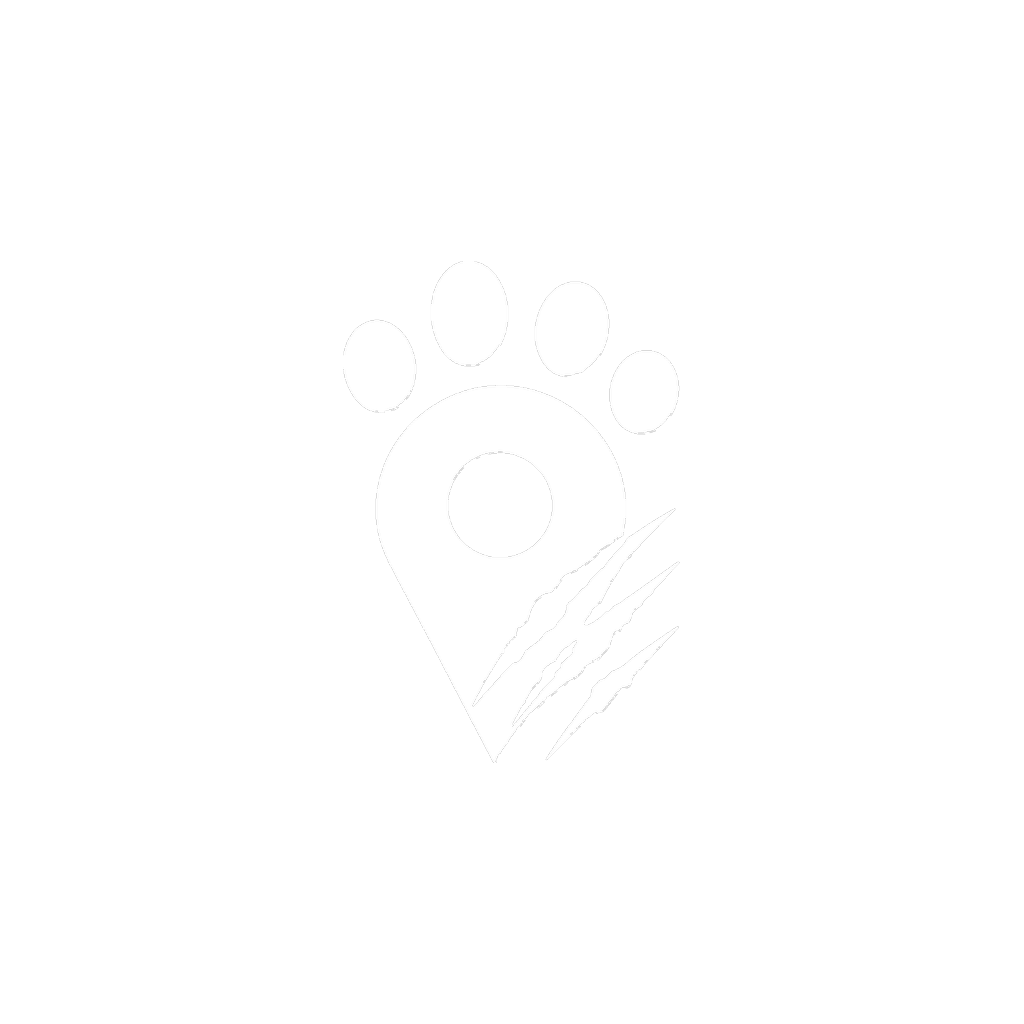
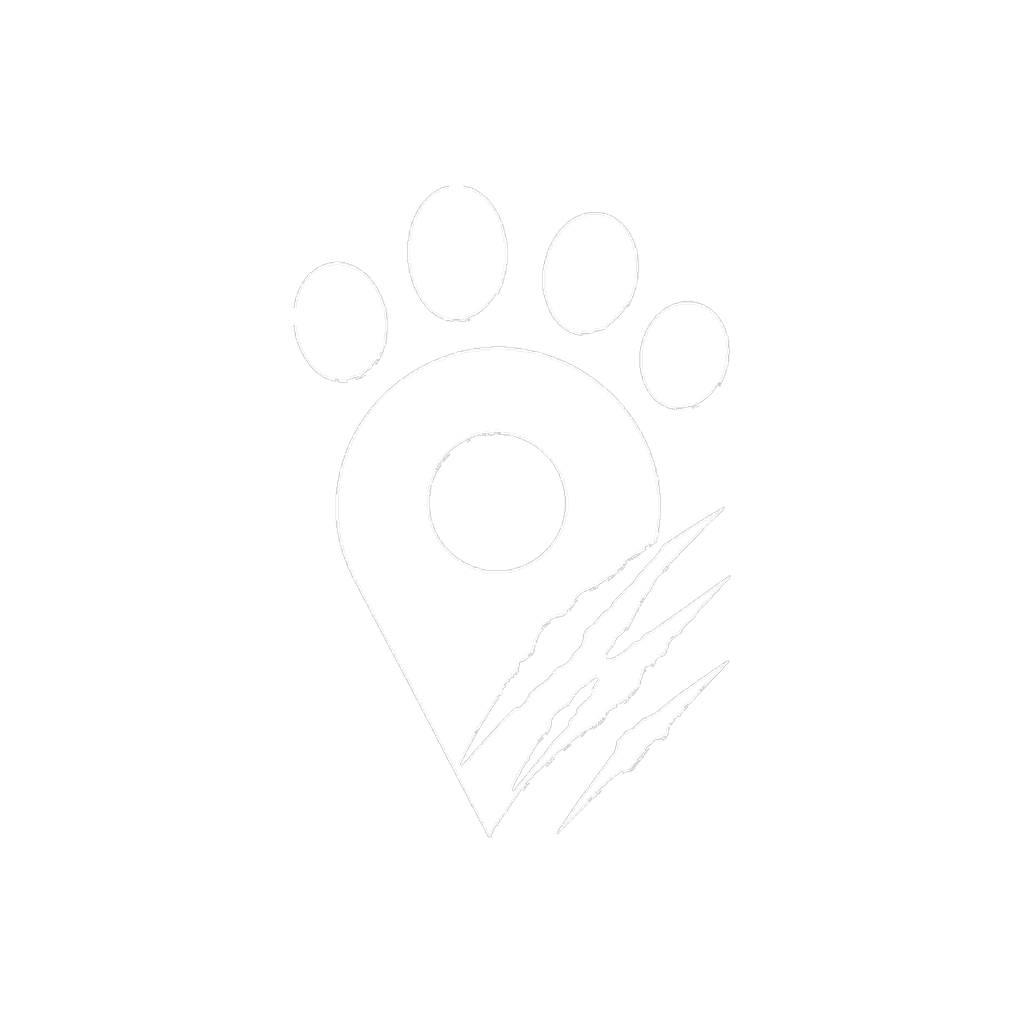
feat: 지도에 팔로우한 사람 지도 전환 기능 추가, 기본 언어 한글 고정, 앱 아이콘 심볼 확대
- map_screen.dart: 미동작 "나의 발톱 자국" 제거, 팔로우한 핀플러(데모 데이터) 지도 전환
  토글 + 아바타 스트립 + "내 지도로 돌아가기" 배너 추가
- locale_service.dart: 기기 언어 자동감지 제거, 최초 실행 시 한글 기본값으로 고정
- app_icon_fg_v2.png: adaptive icon 전경 심볼 확대(약 1.3배) 후 flutter_launcher_icons 재생성

Changed region(s): [[0.5625, 0.6875, 0.5938, 0.7188]]

diff --git a/lib/features/map/screens/map_screen.dart b/lib/features/map/screens/map_screen.dart
@@ -12,10 +12,10 @@ import 'package:pinspot/core/models/pin_rating_schema.dart';
 import 'package:pinspot/features/map/services/directions_service.dart';
 import 'package:pinspot/core/services/category_service.dart';
 import 'package:pinspot/features/pin/services/pin_service.dart';
-import 'package:pinspot/design/theme/tigo_colors.dart';
 import 'package:pinspot/design/utils/marker_builder.dart';
 import 'package:pinspot/features/tigo/models/tigo_model.dart';
 import 'package:pinspot/features/tigo/services/tigo_service.dart';
+import 'package:pinspot/features/map/data/followed_pinplers.dart';
 
 // 하드코딩된 데모용 핀(장소) — 정적 마커 데이터
 class _Pin {
@@ -62,6 +62,10 @@ class _MapScreenState extends State<MapScreen> {
   TravelStats? _travelStats;
   BitmapDescriptor? _myLocationIcon;
   StreamSubscription<Position>? _posSub;
+
+  // "팔로우한 사람 지도 보기" — 토글 on/off 및 현재 선택된 핀플러 (null = 나)
+  bool _showFollowed = false;
+  int? _selectedFollowedIndex;
 
   static const _defaultPos = LatLng(37.5665, 126.9780);
 
@@ -110,8 +114,9 @@ class _MapScreenState extends State<MapScreen> {
     return list;
   }
 
-  // 카테고리/검색어로 필터링된 사용자 저장 핀 목록
+  // 카테고리/검색어로 필터링된 사용자 저장 핀 목록 (팔로우한 다른 핀플러의 지도를 보는 중이면 내 핀은 숨김)
   List<PinModel> get _filteredSavedPins {
+    if (_selectedFollowedIndex != null) return [];
     var list = _selectedCategory == '전체'
         ? _savedPins
         : _savedPins.where((p) => p.category == _selectedCategory).toList();
@@ -169,7 +174,39 @@ class _MapScreenState extends State<MapScreen> {
           }
         : <Marker>{};
 
-    return {...staticMarkers, ...savedMarkers, ...dangerMarkers, ...myLocationMarker};
+    // 팔로우한 핀플러의 핀 마커 (선택 중일 때만) — 핀플러별 색상 hue로 구분
+    Set<Marker> followedMarkers = {};
+    if (_selectedFollowedIndex != null) {
+      final pinpler = followedPinplers[_selectedFollowedIndex!];
+      final hue = HSLColor.fromColor(pinpler.color).hue;
+      followedMarkers = pinpler.pins.map((loc) => Marker(
+        markerId: MarkerId('followed_${pinpler.name}_${loc.name}'),
+        position: loc.pos,
+        icon: BitmapDescriptor.defaultMarkerWithHue(hue),
+        infoWindow: InfoWindow(title: loc.name, snippet: pinpler.name),
+      )).toSet();
+    }
+
+    return {...staticMarkers, ...savedMarkers, ...dangerMarkers, ...myLocationMarker, ...followedMarkers};
+  }
+
+  // 팔로우 아바타 스트립에서 사람을 선택 — null이면 "나"(내 핀), 아니면 해당 핀플러의 핀으로 지도 전환
+  void _selectFollowed(int? index) {
+    setState(() => _selectedFollowedIndex = index);
+    if (index == null) return;
+    WidgetsBinding.instance.addPostFrameCallback((_) async {
+      if (!mounted) return;
+      final pins = followedPinplers[index].pins;
+      if (pins.isEmpty) return;
+      final ctrl = await _mapCtrl.future;
+      if (pins.length == 1) {
+        ctrl.animateCamera(CameraUpdate.newLatLngZoom(pins.first.pos, 14));
+      } else {
+        ctrl.animateCamera(
+          CameraUpdate.newLatLngBounds(_boundsFromPoints(pins.map((p) => p.pos).toList()), 80),
+        );
+      }
+    });
   }
 
   @override
@@ -569,6 +606,32 @@ class _MapScreenState extends State<MapScreen> {
                               ),
                             ),
                           ),
+                          // 팔로우한 사람 지도 보기 토글 버튼
+                          Padding(
+                            padding: const EdgeInsets.only(left: 8),
+                            child: GestureDetector(
+                              onTap: () => setState(() {
+                                _showFollowed = !_showFollowed;
+                                if (!_showFollowed) _selectedFollowedIndex = null;
+                              }),
+                              child: Container(
+                                width: 48, height: 48,
+                                decoration: BoxDecoration(
+                                  color: _showFollowed ? AppColors.primary : AppColors.surface,
+                                  borderRadius: BorderRadius.circular(14),
+                                  boxShadow: [
+                                    BoxShadow(color: Colors.black.withValues(alpha: 0.10), blurRadius: 12, offset: const Offset(0, 4)),
+                                    BoxShadow(color: Colors.black.withValues(alpha: 0.05), blurRadius: 4, offset: const Offset(0, 1)),
+                                  ],
+                                ),
+                                child: Icon(
+                                  _showFollowed ? Icons.people_alt_rounded : Icons.people_outline_rounded,
+                                  color: _showFollowed ? Colors.white : AppColors.neutral600,
+                                  size: 21,
+                                ),
+                              ),
+                            ),
+                          ),
                           // 핀 카운트 뱃지 (필터 활성 시)
                           AnimatedSwitcher(
                             duration: const Duration(milliseconds: 200),
@@ -600,6 +663,73 @@ class _MapScreenState extends State<MapScreen> {
                         ],
                       ),
                     ),
+                    // "OOO님의 지도" 배너 — 팔로우한 핀플러의 지도를 보는 중일 때 표시
+                    if (_selectedFollowedIndex != null)
+                      Padding(
+                        padding: const EdgeInsets.fromLTRB(16, 0, 16, 10),
+                        child: GestureDetector(
+                          onTap: () => _selectFollowed(null),
+                          child: Container(
+                            padding: const EdgeInsets.symmetric(horizontal: 14, vertical: 10),
+                            decoration: BoxDecoration(
+                              color: followedPinplers[_selectedFollowedIndex!].color,
+                              borderRadius: BorderRadius.circular(12),
+                              boxShadow: [BoxShadow(color: Colors.black.withValues(alpha: 0.12), blurRadius: 10, offset: const Offset(0, 3))],
+                            ),
+                            child: Row(
+                              children: [
+                                Text(followedPinplers[_selectedFollowedIndex!].emoji, style: const TextStyle(fontSize: 15)),
+                                const SizedBox(width: 6),
+                                Expanded(
+                                  child: Text(
+                                    '${followedPinplers[_selectedFollowedIndex!].name}님의 지도',
+                                    style: const TextStyle(fontSize: 13, fontWeight: FontWeight.w700, color: Colors.white),
+                                    overflow: TextOverflow.ellipsis,
+                                  ),
+                                ),
+                                const SizedBox(width: 8),
+                                Row(
+                                  mainAxisSize: MainAxisSize.min,
+                                  children: [
+                                    Text('내 지도로 돌아가기',
+                                        style: TextStyle(fontSize: 12, fontWeight: FontWeight.w600, color: Colors.white.withValues(alpha: 0.92))),
+                                    const SizedBox(width: 3),
+                                    const Icon(Icons.arrow_forward_rounded, color: Colors.white, size: 14),
+                                  ],
+                                ),
+                              ],
+                            ),
+                          ),
+                        ),
+                      ),
+                    // 팔로우한 핀플러 아바타 스트립 (토글 on일 때만)
+                    if (_showFollowed)
+                      SizedBox(
+                        height: 78,
+                        child: ListView(
+                          scrollDirection: Axis.horizontal,
+                          padding: const EdgeInsets.fromLTRB(16, 0, 16, 12),
+                          children: [
+                            _FollowedAvatar(
+                              label: '나',
+                              emoji: '🙂',
+                              color: AppColors.primary,
+                              isSelected: _selectedFollowedIndex == null,
+                              onTap: () => _selectFollowed(null),
+                            ),
+                            ...List.generate(followedPinplers.length, (i) {
+                              final p = followedPinplers[i];
+                              return _FollowedAvatar(
+                                label: p.name,
+                                emoji: p.emoji,
+                                color: p.color,
+                                isSelected: _selectedFollowedIndex == i,
+                                onTap: () => _selectFollowed(i),
+                              );
+                            }),
+                          ],
+                        ),
+                      ),
                     // 카테고리 칩 (길찾기 중 숨김)
                     if (!_isNavigating && !_navLoading)
                       SingleChildScrollView(
@@ -706,36 +836,6 @@ class _MapScreenState extends State<MapScreen> {
               ),
             ),
           ),
-          // ── "나의 발톱 자국" 칩 ──
-          Positioned(
-            top: 0, left: 0, right: 0,
-            child: SafeArea(
-              bottom: false,
-              child: Align(
-                alignment: Alignment.topLeft,
-                child: Padding(
-                  padding: const EdgeInsets.only(left: 16, top: 8),
-                  child: Container(
-                    padding: const EdgeInsets.symmetric(horizontal: 14, vertical: 7),
-                    decoration: BoxDecoration(
-                      color: Colors.white,
-                      borderRadius: BorderRadius.circular(20),
-                      boxShadow: [BoxShadow(color: Colors.black.withValues(alpha: 0.12), blurRadius: 10, offset: const Offset(0, 3))],
-                    ),
-                    child: Row(
-                      mainAxisSize: MainAxisSize.min,
-                      children: [
-                        Text('🐾', style: const TextStyle(fontSize: 14)),
-                        const SizedBox(width: 5),
-                        Text('나의 발톱 자국',
-                            style: TextStyle(fontSize: 13, fontWeight: FontWeight.w700, color: TigoColors.brown)),
-                      ],
-                    ),
-                  ),
-                ),
-              ),
-            ),
-          ),
           // ── 하단 통계 카드 ──
           if (_travelStats != null)
             Positioned(
@@ -828,6 +928,74 @@ class _Divider extends StatelessWidget {
   @override
   Widget build(BuildContext context) {
     return Container(width: 1, height: 32, color: const Color(0xFFEEEEEE));
+  }
+}
+
+// ──────────────────────────────────────────────
+// 팔로우 지도 아바타 스트립 항목 ("나" 또는 팔로우한 핀플러 한 명)
+// ──────────────────────────────────────────────
+class _FollowedAvatar extends StatelessWidget {
+  final String label;
+  final String emoji;
+  final Color color;
+  final bool isSelected;
+  final VoidCallback onTap;
+
+  const _FollowedAvatar({
+    required this.label,
+    required this.emoji,
+    required this.color,
+    required this.isSelected,
+    required this.onTap,
+  });
+
+  @override
+  Widget build(BuildContext context) {
+    return GestureDetector(
+      onTap: onTap,
+      child: Padding(
+        padding: const EdgeInsets.only(right: 12),
+        child: SizedBox(
+          width: 56,
+          child: Column(
+            mainAxisSize: MainAxisSize.min,
+            children: [
+              Container(
+                width: 50, height: 50,
+                decoration: BoxDecoration(
+                  color: color,
+                  shape: BoxShape.circle,
+                  border: Border.all(
+                    color: isSelected ? AppColors.neutral900 : Colors.white,
+                    width: isSelected ? 2.5 : 2,
+                  ),
+                  boxShadow: [
+                    BoxShadow(
+                      color: Colors.black.withValues(alpha: isSelected ? 0.20 : 0.10),
+                      blurRadius: isSelected ? 10 : 6,
+                      offset: const Offset(0, 3),
+                    ),
+                  ],
+                ),
+                child: Center(child: Text(emoji, style: const TextStyle(fontSize: 22))),
+              ),
+              const SizedBox(height: 4),
+              Text(
+                label,
+                maxLines: 1,
+                overflow: TextOverflow.ellipsis,
+                textAlign: TextAlign.center,
+                style: TextStyle(
+                  fontSize: 10.5,
+                  fontWeight: isSelected ? FontWeight.w800 : FontWeight.w500,
+                  color: isSelected ? AppColors.neutral900 : AppColors.neutral500,
+                ),
+              ),
+            ],
+          ),
+        ),
+      ),
+    );
   }
 }
 

diff --git a/lib/features/map/data/followed_pinplers.dart b/lib/features/map/data/followed_pinplers.dart
@@ -1,0 +1,69 @@
+import 'package:flutter/material.dart';
+import 'package:google_maps_flutter/google_maps_flutter.dart';
+
+// 팔로우한 핀플러가 등록한 핀 하나의 위치 정보 (지도 마커용으로 LatLng을 직접 보유)
+class FollowedPinLocation {
+  final String name;
+  final LatLng pos;
+  const FollowedPinLocation(this.name, this.pos);
+}
+
+// "팔로우한 사람 지도 보기" 데모용 핀플러 한 명의 데이터
+// 실제 팔로우/서버 연동 전까지 사용하는 하드코딩 목업 모델 (pinpler_ranking_screen.dart의 PinplerData/PinLocation 패턴 참고)
+class FollowedPinpler {
+  final String name;
+  final String emoji;
+  final Color color;
+  final List<FollowedPinLocation> pins;
+
+  const FollowedPinpler({
+    required this.name,
+    required this.emoji,
+    required this.color,
+    required this.pins,
+  });
+}
+
+// 서버 연동 전까지 지도 화면에서 보여줄 "팔로우 중인 핀플러" 목업 리스트 (서울 근방 임의 좌표)
+const followedPinplers = <FollowedPinpler>[
+  FollowedPinpler(
+    name: '산책왕지수',
+    emoji: '🐿',
+    color: Color(0xFF2196F3),
+    pins: [
+      FollowedPinLocation('한강 노을 명당', LatLng(37.5285, 126.9326)),
+      FollowedPinLocation('망원동 골목 카페', LatLng(37.5563, 126.9013)),
+      FollowedPinLocation('하늘공원 억새길', LatLng(37.5714, 126.8895)),
+    ],
+  ),
+  FollowedPinpler(
+    name: '도시탐험가민',
+    emoji: '🦊',
+    color: Color(0xFFFF9800),
+    pins: [
+      FollowedPinLocation('을지로 노포 골목', LatLng(37.5663, 126.9910)),
+      FollowedPinLocation('성수동 카페거리', LatLng(37.5445, 127.0560)),
+      FollowedPinLocation('창신동 봉제거리', LatLng(37.5735, 127.0130)),
+      FollowedPinLocation('종묘 돌담길', LatLng(37.5744, 126.9915)),
+    ],
+  ),
+  FollowedPinpler(
+    name: '야경헌터소율',
+    emoji: '🦉',
+    color: Color(0xFF9C27B0),
+    pins: [
+      FollowedPinLocation('낙산공원 야경', LatLng(37.5798, 127.0018)),
+      FollowedPinLocation('N서울타워 전망', LatLng(37.5512, 126.9882)),
+      FollowedPinLocation('반포대교 무지개분수', LatLng(37.5104, 126.9950)),
+    ],
+  ),
+  FollowedPinpler(
+    name: '카페인러버준',
+    emoji: '🐨',
+    color: Color(0xFF4CAF50),
+    pins: [
+      FollowedPinLocation('연남동 숨은 카페', LatLng(37.5636, 126.9256)),
+      FollowedPinLocation('익선동 한옥 카페', LatLng(37.5735, 126.9903)),
+    ],
+  ),
+];

diff --git a/lib/account/settings/services/locale_service.dart b/lib/account/settings/services/locale_service.dart
@@ -10,7 +10,7 @@ class LocaleService {
   static const _key = 'app_locale';
   static const _supported = ['ko', 'en', 'ja', 'zh'];
 
-  // 저장된 언어 설정을 불러오거나, 없으면 기기 언어를 감지해 초기화
+  // 저장된 언어 설정을 불러오거나, 없으면 한글로 시작 (기기 언어는 프로필에서 직접 바꿀 수 있음)
   static Future<void> init() async {
     final prefs = await SharedPreferences.getInstance();
     final saved = prefs.getString(_key);
@@ -18,11 +18,7 @@ class LocaleService {
       localeNotifier.value = Locale(saved);
       return;
     }
-    // Auto-detect from device
-    final deviceCode = WidgetsBinding
-        .instance.platformDispatcher.locale.languageCode;
-    localeNotifier.value =
-        Locale(_supported.contains(deviceCode) ? deviceCode : 'en');
+    localeNotifier.value = const Locale('ko');
   }
 
   // 언어를 변경하고 SharedPreferences에 저장
